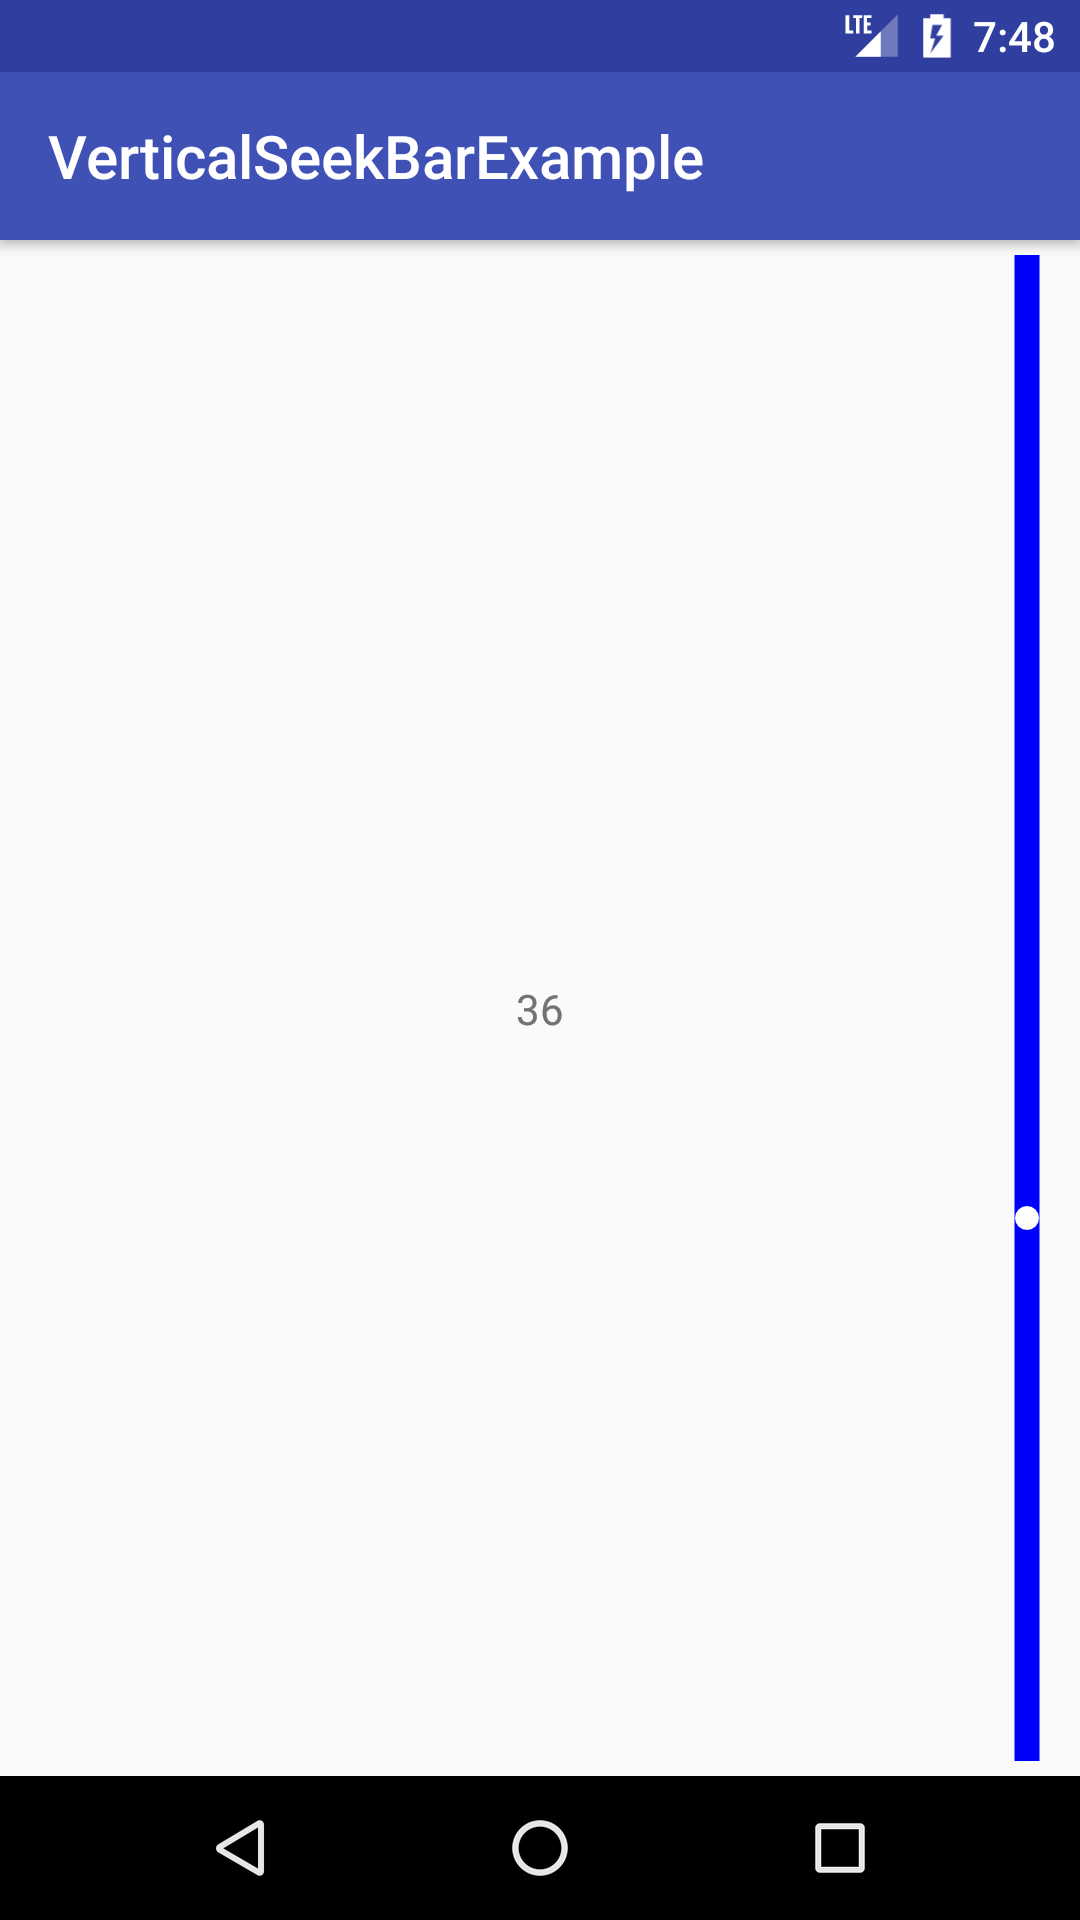
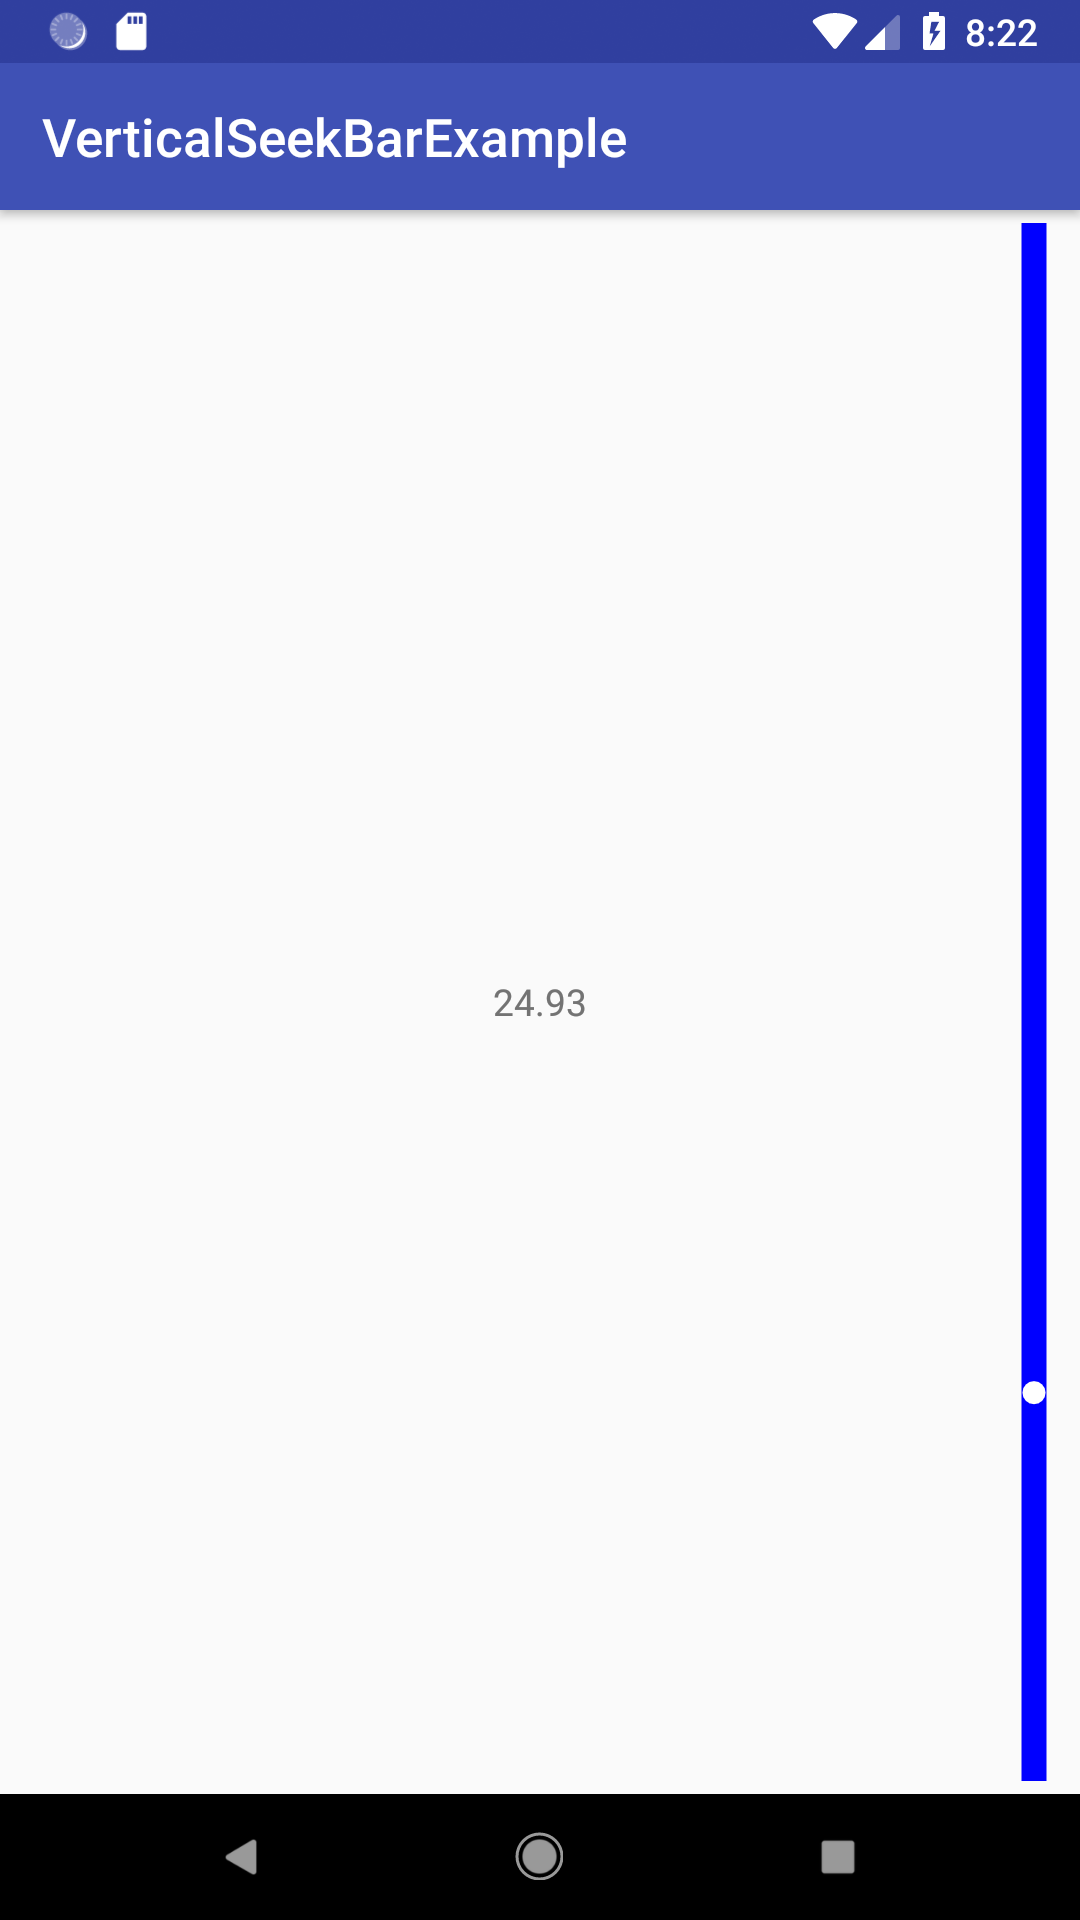
updated infos about library vertical seekbar view

diff --git a/_pages/projects-verticalseekbar.md b/_pages/projects-verticalseekbar.md
@@ -4,7 +4,7 @@ title: Projects - VerticalSeekbarView
 permalink: /projects/VerticalSeekbarView
 render: dynamic
 author_profile: false
-date: 2017-09-02T12:30:00+00:00
+date: 2018-08-11T10:26:00+00:00
 ---
 
 <div style="width: 100%;text-align: center;margin:15px;text-decoration: underline;">
@@ -55,35 +55,44 @@ An example application is given in this project!
 2 - then in your activitiy:
 
 ```java
-import android.support.v7.app.AppCompatActivity;
-import android.os.Bundle;
-import android.widget.TextView;
+package guepardoapps.verticalseekbarexample
 
-import guepardoapps.library.verticalseekbarview.VerticalSeekBarView;
-import guepardoapps.library.verticalseekbarview.enums.VerticalSeekBarStyleEnum;
-import guepardoapps.library.verticalseekbarview.interfaces.OnVerticalSeekBarMoveListener;
+import android.os.Bundle
+import android.support.v7.app.AppCompatActivity
+import android.util.Log
+import android.widget.TextView
+import guepardoapps.library.verticalseekbarview.VerticalSeekBarView
+import guepardoapps.library.verticalseekbarview.constants.Defaults
+import guepardoapps.library.verticalseekbarview.extensions.doubleFormat
+import io.reactivex.schedulers.Schedulers
 
-public class MainActivity extends AppCompatActivity {
+class MainActivity : AppCompatActivity() {
+    private val tag: String = MainActivity::class.java.simpleName
 
-    private static final long LOOP_INTERVAL = 250;
+    private val loopInterval: Long = 250
 
-    @Override
-    protected void onCreate(Bundle savedInstanceState) {
-        super.onCreate(savedInstanceState);
-        setContentView(R.layout.activity_main);
+    override fun onCreate(savedInstanceState: Bundle?) {
+        super.onCreate(savedInstanceState)
+        setContentView(R.layout.activity_main)
 
-        final TextView valueView = (TextView) findViewById(R.id.valueView);
-        valueView.setText(String.valueOf(0));
+        val valueView = findViewById<TextView>(R.id.valueView)
+        val defaultText = "0.0"
+        valueView.text = defaultText
 
-        VerticalSeekBarView verticalSeekBarView = (VerticalSeekBarView) findViewById(R.id.valueControl);
-        verticalSeekBarView.SetStyle(VerticalSeekBarStyleEnum.VOLUME_SLIDER_BLUE);
-        verticalSeekBarView.setOnVerticalSeekBarMoveListener(new OnVerticalSeekBarMoveListener() {
-            @Override
-            public void onValueChanged(int power) {
-                // Returns a value between 0 and 100
-                valueView.setText(String.valueOf(power));
-            }
-        }, LOOP_INTERVAL);
+        val verticalSeekBarView = findViewById<VerticalSeekBarView>(R.id.valueControl)
+        verticalSeekBarView.setStyle(Defaults.styleVolumeSliderBlue)
+        verticalSeekBarView.setLoopInterval(loopInterval)
+        verticalSeekBarView.positionPublishSubject
+                .subscribeOn(Schedulers.io())
+                .subscribe(
+                        { response ->
+                            val text = response.y.doubleFormat(2)
+                            valueView.text = text
+                        },
+                        { throwable ->
+                            Log.e(tag, throwable.toString())
+                        }
+                )
     }
 }
 ```
@@ -92,117 +101,47 @@ public class MainActivity extends AppCompatActivity {
 Following styles are given:
 
 ```java
-package guepardoapps.library.verticalseekbarview.enums;
+package guepardoapps.library.verticalseekbarview.constants
 
-import android.graphics.Color;
+import android.graphics.Color
+import guepardoapps.library.verticalseekbarview.models.VerticalSeekBarStyle
 
-public enum VerticalSeekBarStyleEnum {
+class Defaults {
+    companion object {
+        ...
 
-    public static VerticalSeekBarStyle DEFAULT = new VerticalSeekBarStyle(0, "Default", Color.WHITE, Color.RED, true, 50);
-
-    public static VerticalSeekBarStyle VOLUME_SLIDER = new VerticalSeekBarStyle(1, "VolumeSlider", Color.argb(50, 50, 50, 50), Color.WHITE, false, 100);
-
-    public static VerticalSeekBarStyle VOLUME_SLIDER_RED = new VerticalSeekBarStyle(2, "VolumeSliderRed", Color.argb(255, 255, 0, 0), Color.WHITE, false, 100);
-    public static VerticalSeekBarStyle VOLUME_SLIDER_GREEN = new VerticalSeekBarStyle(3, "VolumeSliderGreen", Color.argb(255, 0, 255, 0), Color.WHITE, false, 100);
-    public static VerticalSeekBarStyle VOLUME_SLIDER_BLUE = new VerticalSeekBarStyle(4, "VolumeSliderBlue", Color.argb(255, 0, 0, 255), Color.WHITE, false, 100);
-
-    public static VerticalSeekBarStyle VOLUME_SLIDER_YELLOW = new VerticalSeekBarStyle(5, "VolumeSliderYellow", Color.argb(255, 255, 255, 0), Color.WHITE, false, 100);
-    public static VerticalSeekBarStyle VOLUME_SLIDER_PURPLE = new VerticalSeekBarStyle(6, "VolumeSliderPurple", Color.argb(255, 255, 0, 255), Color.WHITE, false, 100);
-    public static VerticalSeekBarStyle VOLUME_SLIDER_CYAN = new VerticalSeekBarStyle(7, "VolumeSliderCyan", Color.argb(255, 255, 0, 255), Color.WHITE, false, 100);
+        /*
+         * predefined styles
+         */
+        val styleDefault: VerticalSeekBarStyle = VerticalSeekBarStyle(Color.WHITE, Color.RED, true, 50.0)
+        val styleVolumeSlider: VerticalSeekBarStyle = VerticalSeekBarStyle(Color.argb(50, 50, 50, 50), Color.WHITE, false, 100.0)
+        val styleVolumeSliderRed: VerticalSeekBarStyle = VerticalSeekBarStyle(Color.argb(255, 255, 0, 0), Color.WHITE, false, 100.0)
+        val styleVolumeSliderGreen: VerticalSeekBarStyle = VerticalSeekBarStyle(Color.argb(255, 0, 255, 0), Color.WHITE, false, 100.0)
+        val styleVolumeSliderBlue: VerticalSeekBarStyle = VerticalSeekBarStyle(Color.argb(255, 0, 0, 255), Color.WHITE, false, 100.0)
+        val styleVolumeSliderYellow: VerticalSeekBarStyle = VerticalSeekBarStyle(Color.argb(255, 255, 255, 0), Color.WHITE, false, 100.0)
+        val styleVolumeSliderPurple: VerticalSeekBarStyle = VerticalSeekBarStyle(Color.argb(255, 255, 0, 255), Color.WHITE, false, 100.0)
+        val styleVolumeSliderCyan: VerticalSeekBarStyle = VerticalSeekBarStyle(Color.argb(255, 0, 255, 255), Color.WHITE, false, 100.0)
+    }
 }
 ```
 
 4 - create your own style:
-Styles are based on the class VerticalSeekBarStyle in package guepardoapps.library.verticalseekbarview.styles;
+Styles are based on the class VerticalSeekBarStyle in package guepardoapps.library.verticalseekbarview.models;
 
 ```java
-package guepardoapps.library.verticalseekbarview.styles;
+package guepardoapps.library.verticalseekbarview.models
 
-import android.support.annotation.NonNull;
-
-import guepardoapps.library.verticalseekbarview.tools.Logger;
-
-public class VerticalSeekBarStyle {
-
-    private static final String TAG = VerticalSeekBarStyle.class.getSimpleName();
-    private Logger _logger;
-
-    private int _id;
-    private String _name;
-    private int _seekBarColor;
-    private int _buttonColor;
-    private boolean _resetPosition;
-    private int _startPercentageY;
-
-    public VerticalSeekBarStyle(
-            int id,
-            @NonNull String name,
-            int seekBarColor,
-            int buttonColor,
-            boolean resetPosition,
-            int startPercentageY) {
-        _logger = new Logger(TAG);
-        _logger.Debug("new VerticalSeekBarStyle...");
-
-        _id = id;
-        _name = name;
-        _seekBarColor = seekBarColor;
-        _buttonColor = buttonColor;
-        _resetPosition = resetPosition;
-
-        if (startPercentageY < 0) {
-            _logger.Warn("Value of startPercentage is lower then 0! This is not allowed! Setting to 0!");
-            startPercentageY = 0;
-        } else if (startPercentageY > 100) {
-            _logger.Warn("Value of startPercentage is higher then 100! This is not allowed! Setting to 100!");
-            startPercentageY = 100;
-        }
-
-        _startPercentageY = startPercentageY;
-    }
-
-    public int GetId() {
-        return _id;
-    }
-
-    public String GetName() {
-        return _name;
-    }
-
-    public int GetSeekBarColor() {
-        return _seekBarColor;
-    }
-
-    public int GetButtonColor() {
-        return _buttonColor;
-    }
-
-    public boolean GetResetPosition() {
-        return _resetPosition;
-    }
-
-    public int GetStartPercentageY() {
-        return _startPercentageY;
-    }
-
-    @Override
-    public String toString() {
-        return "{" + TAG
-                + ":{_id:" + String.valueOf(_id)
-                + "};{_name:" + _name
-                + "};{_seekBarColor:" + String.valueOf(_seekBarColor)
-                + "};{_buttonColor:" + String.valueOf(_buttonColor)
-                + "};{_resetPosition:" + String.valueOf(_resetPosition)
-                + "};{_startPercentageY:" + String.valueOf(_startPercentageY) + "};}";
-    }
-}
-
+data class VerticalSeekBarStyle(
+        val colorSeekBar: Int,
+        val colorButton: Int,
+        val resetPosition: Boolean,
+        val startPercentageY: Double = 0.0)
 ```
 
 You can create a own style by creating an intance of this class, like:
 ```java
-	VerticalSeekBarStyle MY_STYLE = new VerticalSeekBarStyle(25, "MyStyle", Color.BLUE, Color.GREEN, true, 25);
+	val myStyle = VerticalSeekBarStyle(Color.BLUE, Color.GREEN, true, 25.0);
 ```
 
-Please not that the boolean value marks a reset of the SeekBar after releasing it.
+Please note that the boolean value marks a reset of the SeekBar after releasing it.
 The last parameter is an integer. It marks the startPosition of the dragger and needs to be between 0 and 100!

diff --git a/_pages/projects.md b/_pages/projects.md
@@ -415,7 +415,7 @@ date: 2017-08-24T22:38:00+00:00
   					<img src="https://img.shields.io/badge/build-passing-green.svg" />
   				</a>
   				<a target="_blank" href="https://github.com/GuepardoApps/library_VerticalSeekbarView" title="Version">
-  					<img src="https://img.shields.io/badge/version-v1.0.0.170628-blue.svg" />
+  					<img src="https://img.shields.io/badge/version-v1.1.0.1780811-blue.svg" />
   				</a>
   				<a target="_blank" href="https://opensource.org/licenses/MIT" title="License: MIT">
   					<img src="https://img.shields.io/badge/License-MIT-blue.svg" />
